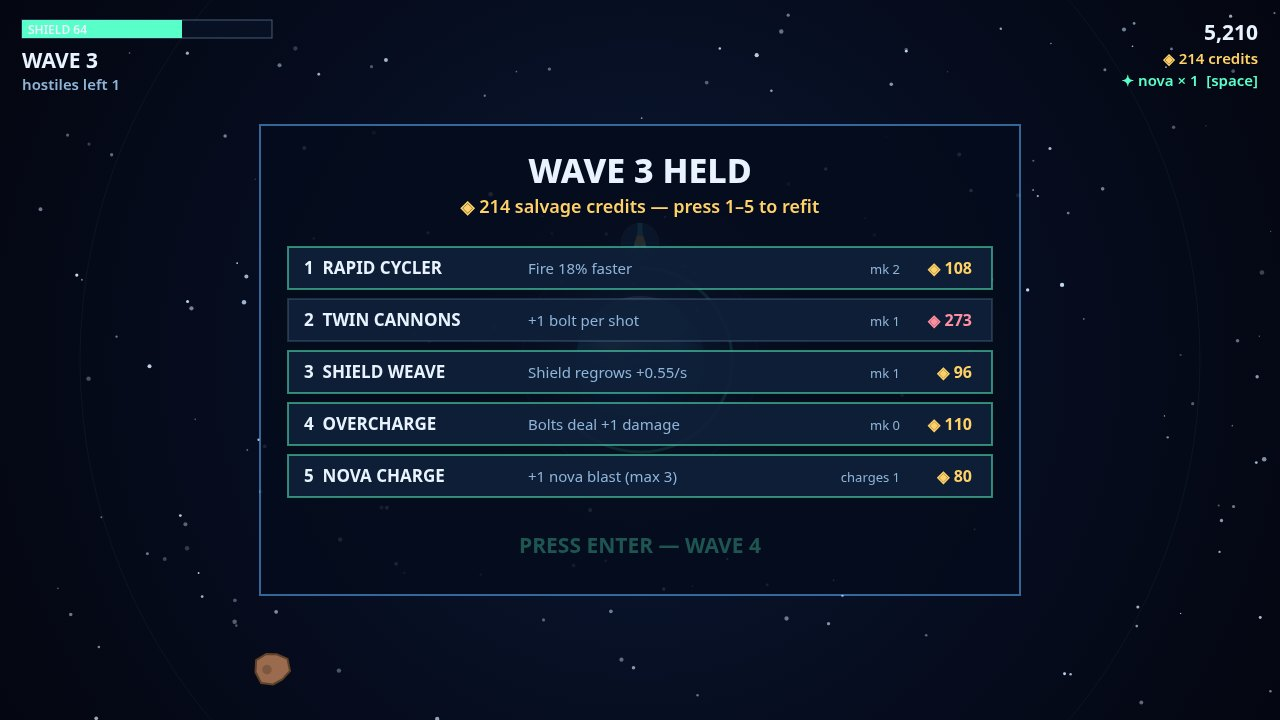
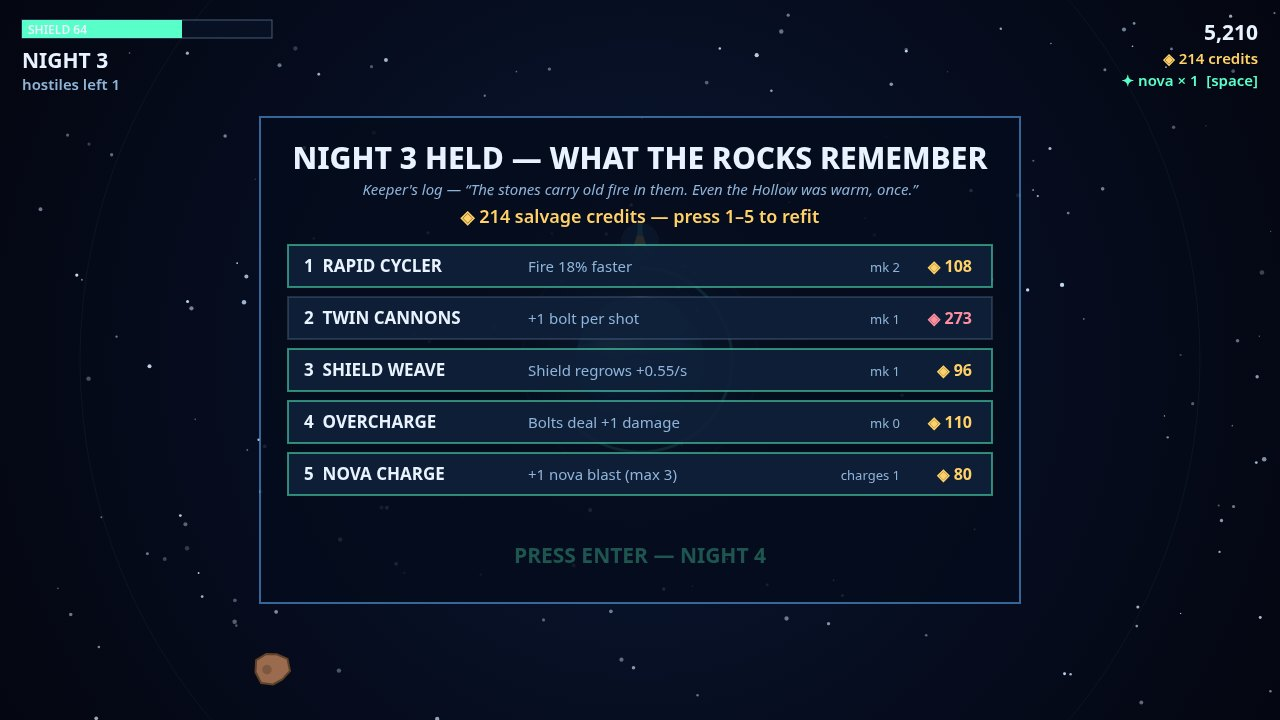
Round 2 — THE LAST KEEPER: story identity for Aegis Orbit
Same engine, a specific story: Aegis is the last lit star, the Hollow feeds
on light, the guardian is its Keeper. Named nights with a Keeper's log read
in the shipyard, a story title screen, epitaphs by nights held, NIGHT
labels throughout. Plus: Esc pauses, Enter starts a run from title/end.

diff --git a/game/src/render.js b/game/src/render.js
@@ -2,7 +2,7 @@
 // glowing atmosphere, a parallax starfield, polygon ships and rocks, and a
 // HUD that reads at a glance. Screens (title, shop, game over) draw here too.
 
-import { VIEW, PLANET, GUARDIAN, NOVA, SHOP, COLORS } from './config.js';
+import { VIEW, PLANET, GUARDIAN, NOVA, SHOP, COLORS, nightOf } from './config.js';
 import { rand, reseed } from './random.js';
 
 // Fixed starfield, generated once from a seed so every frame agrees.
@@ -252,7 +252,7 @@ function drawHUD(ctx, world) {
   ctx.fillStyle = COLORS.text;
   ctx.font = '700 21px "Segoe UI", system-ui, sans-serif';
   ctx.textAlign = 'left';
-  ctx.fillText(`WAVE ${Math.max(1, world.wave)}`, 22, 68);
+  ctx.fillText(`NIGHT ${Math.max(1, world.wave)}`, 22, 68);
   ctx.font = '600 15px "Segoe UI", system-ui, sans-serif';
   ctx.fillStyle = COLORS.dim;
   ctx.fillText(`hostiles left ${world.enemies.length + world.spawnQueue.length}`, 22, 90);
@@ -281,44 +281,67 @@ function panel(ctx, w, h) {
 }
 
 function drawTitle(ctx, world) {
-  const { x } = panel(ctx, 620, 400);
+  const { x } = panel(ctx, 660, 430);
   const cx = VIEW.w / 2;
   ctx.textAlign = 'center';
   ctx.fillStyle = COLORS.text;
   ctx.font = '800 64px "Segoe UI", system-ui, sans-serif';
-  ctx.fillText('AEGIS ORBIT', cx, 268);
-  ctx.fillStyle = '#57b6ff';
-  ctx.font = '600 19px "Segoe UI", system-ui, sans-serif';
-  ctx.fillText('one guardian · one planet · no second chances', cx, 304);
+  ctx.fillText('AEGIS ORBIT', cx, 238);
+  ctx.fillStyle = '#59ffc8';
+  ctx.font = '700 17px "Segoe UI", system-ui, sans-serif';
+  ctx.fillText('T H E   L A S T   K E E P E R', cx, 272);
   ctx.fillStyle = COLORS.dim;
   ctx.font = '16px "Segoe UI", system-ui, sans-serif';
-  ctx.fillText('Aim with the mouse — your guardian rides the orbit ring.', cx, 356);
-  ctx.fillText('Hold click to fire. Space fires a nova that clears the sky.', cx, 382);
-  ctx.fillText('Shoot mint star cores to recharge the nova.', cx, 408);
-  ctx.fillText('Between waves, spend salvage credits in the shipyard.', cx, 434);
+  ctx.fillText('Every star in the sky has gone out but one.', cx, 316);
+  ctx.fillText('The Hollow — things that feed on light — fall toward it, night after night.', cx, 342);
+  ctx.fillText('You are the Keeper of Aegis: not a soldier. The one who stayed.', cx, 368);
+  ctx.fillStyle = '#cfe6ff';
+  ctx.font = '15px "Segoe UI", system-ui, sans-serif';
+  ctx.fillText('Aim with the mouse — your cannon rides the orbit ring. Hold click to fire.', cx, 410);
+  ctx.fillText('Space fires a nova that clears the sky; shoot mint star cores to recharge it.', cx, 434);
+  ctx.fillText('Between nights, spend salvage in the shipyard. A/D or ←/→ orbits by keyboard.', cx, 458);
   const pulse = 0.65 + 0.35 * Math.sin(world.time * 3.4);
   ctx.globalAlpha = pulse;
   ctx.fillStyle = '#59ffc8';
   ctx.font = '700 24px "Segoe UI", system-ui, sans-serif';
-  ctx.fillText('CLICK TO DEFEND', cx, 492);
+  ctx.fillText('CLICK TO TAKE THE WATCH', cx, 516);
   ctx.globalAlpha = 1;
   ctx.textAlign = 'left';
   void x;
 }
 
+// Greedy word wrap for the story lines, measured against the live font.
+function wrapText(ctx, text, maxWidth) {
+  const words = text.split(' ');
+  const lines = [];
+  let line = '';
+  for (const w of words) {
+    const next = line ? `${line} ${w}` : w;
+    if (ctx.measureText(next).width > maxWidth && line) {
+      lines.push(line);
+      line = w;
+    } else line = next;
+  }
+  if (line) lines.push(line);
+  return lines;
+}
+
 function drawShop(ctx, world, shopPrice) {
-  const { x, y } = panel(ctx, 760, 470);
+  const { x, y } = panel(ctx, 760, 486);
   const cx = VIEW.w / 2;
   ctx.textAlign = 'center';
   ctx.fillStyle = COLORS.text;
-  ctx.font = '800 34px "Segoe UI", system-ui, sans-serif';
-  ctx.fillText(`WAVE ${world.wave} HELD`, cx, y + 58);
+  ctx.font = '800 30px "Segoe UI", system-ui, sans-serif';
+  ctx.fillText(`NIGHT ${world.wave} HELD — ${nightOf(world.wave).name}`, cx, y + 52);
+  ctx.fillStyle = COLORS.dim;
+  ctx.font = 'italic 15px "Segoe UI", system-ui, sans-serif';
+  ctx.fillText(`Keeper's log — “${world.logLine}”`, cx, y + 78);
   ctx.fillStyle = COLORS.credit;
   ctx.font = '600 18px "Segoe UI", system-ui, sans-serif';
-  ctx.fillText(`◈ ${world.credits} salvage credits — press 1–5 to refit`, cx, y + 88);
+  ctx.fillText(`◈ ${world.credits} salvage credits — press 1–5 to refit`, cx, y + 106);
   ctx.textAlign = 'left';
   SHOP.forEach((item, i) => {
-    const rowY = y + 122 + i * 52;
+    const rowY = y + 128 + i * 52;
     const isNova = item.id === 'nova';
     const lvl = isNova ? world.novaCharges : world.levels[item.id] || 0;
     const maxed = isNova ? world.novaCharges >= NOVA.maxCharges : lvl >= item.max;
@@ -348,29 +371,34 @@ function drawShop(ctx, world, shopPrice) {
   ctx.fillStyle = '#59ffc8';
   ctx.font = '700 21px "Segoe UI", system-ui, sans-serif';
   ctx.textAlign = 'center';
-  ctx.fillText(`PRESS ENTER — WAVE ${world.wave + 1}`, cx, y + 428);
+  ctx.fillText(`PRESS ENTER — NIGHT ${world.wave + 1}`, cx, y + 446);
   ctx.globalAlpha = 1;
   ctx.textAlign = 'left';
 }
 
 function drawOver(ctx, world) {
-  panel(ctx, 560, 330);
+  panel(ctx, 600, 380);
   const cx = VIEW.w / 2;
   ctx.textAlign = 'center';
   ctx.fillStyle = COLORS.danger;
   ctx.font = '800 46px "Segoe UI", system-ui, sans-serif';
-  ctx.fillText('AEGIS HAS FALLEN', cx, 268);
+  ctx.fillText('THE LIGHT GOES OUT', cx, 246);
   ctx.fillStyle = COLORS.text;
   ctx.font = '600 20px "Segoe UI", system-ui, sans-serif';
-  ctx.fillText(`You held ${world.finalWave} wave${world.finalWave === 1 ? '' : 's'} · ${world.kills} kills`, cx, 322);
+  ctx.fillText(`The Keeper held ${world.finalWave} night${world.finalWave === 1 ? '' : 's'} · ${world.kills} kills`, cx, 292);
   ctx.fillStyle = COLORS.credit;
   ctx.font = '700 26px "Segoe UI", system-ui, sans-serif';
-  ctx.fillText(`SCORE ${world.score.toLocaleString('en-US')}`, cx, 362);
+  ctx.fillText(`SCORE ${world.score.toLocaleString('en-US')}`, cx, 330);
+  ctx.fillStyle = COLORS.dim;
+  ctx.font = 'italic 15px "Segoe UI", system-ui, sans-serif';
+  wrapText(ctx, world.epitaphLine, 520).forEach((line, i) => {
+    ctx.fillText(line, cx, 368 + i * 22);
+  });
   const pulse = 0.65 + 0.35 * Math.sin(world.time * 3.4);
   ctx.globalAlpha = pulse;
   ctx.fillStyle = '#59ffc8';
   ctx.font = '700 21px "Segoe UI", system-ui, sans-serif';
-  ctx.fillText('CLICK TO TRY AGAIN', cx, 428);
+  ctx.fillText('CLICK TO KEEP THE WATCH AGAIN', cx, 452);
   ctx.globalAlpha = 1;
   ctx.textAlign = 'left';
 }
@@ -452,7 +480,7 @@ export function render(ctx, world, input, shopPrice) {
     ctx.fillText('PAUSED', VIEW.w / 2, VIEW.h / 2);
     ctx.font = '600 16px "Segoe UI", system-ui, sans-serif';
     ctx.fillStyle = COLORS.dim;
-    ctx.fillText('P to resume · A/D or ←/→ to orbit · M to mute', VIEW.w / 2, VIEW.h / 2 + 34);
+    ctx.fillText('P or Esc to resume · A/D or ←/→ to orbit · M to mute', VIEW.w / 2, VIEW.h / 2 + 34);
     ctx.textAlign = 'left';
   }
 }

diff --git a/game/src/config.js b/game/src/config.js
@@ -44,6 +44,48 @@ export function wavePlan(n) {
   };
 }
 
+// THE LAST KEEPER — the story frame. Every other star has gone out; Aegis is
+// the last lit world, and the Hollow — things that feed on light — fall toward
+// it night after night. The guardian is its Keeper: not a soldier, the one who
+// stayed. Waves are NIGHTS; each has a name and a line in the Keeper's log,
+// read in the shipyard while the sky is quiet. Past the written nights the
+// log keeps counting, because the Keeper does.
+export const STORY = {
+  keeper: 'THE LAST KEEPER',
+  star: 'AEGIS, THE LAST LIT STAR',
+  nights: [
+    { name: 'FIRST EMBERS', log: 'They came as sparks first. I almost thanked them for the light.' },
+    { name: 'THE DIMMING', log: 'The dark learned my orbit tonight. It will not unlearn it.' },
+    { name: 'WHAT THE ROCKS REMEMBER', log: 'The stones carry old fire in them. Even the Hollow was warm, once.' },
+    { name: 'A CHOIR OF STATIC', log: 'The weavers sing through the black. I hum back so the star hears a voice.' },
+    { name: 'THE GLOAM CARRIERS', log: 'They send their cathedrals now — slow, patient, full of teeth.' },
+    { name: 'HALF-LIGHT', log: 'Half the sky is theirs. The half above Aegis is mine.' },
+    { name: 'THE LONG ANSWER', log: 'Every bolt I fire is a sentence: not tonight. Not this star.' },
+    { name: 'EMBERWEATHER', log: 'The cores drift like seed. Even dying, this orbit grows light.' },
+    { name: 'THE HOLLOW, CLOSE', log: 'I can see them looking back now. Good. Let them aim at me.' },
+    { name: 'TEN THOUSAND DAWNS', log: 'No dawn is coming. I keep the watch anyway. That is the whole of it.' },
+  ],
+  // For nights past the written ten, the log still speaks.
+  lateLog: [
+    'Night uncounted. The star still burns. So do I.',
+    'The Hollow keeps the appointment. So does the Keeper.',
+    'I stopped counting nights. I did not stop keeping them.',
+  ],
+  // The closing line when the shield fails, by how long the light was held.
+  epitaph: (nights) =>
+    nights <= 2
+      ? 'The light went out early — but it was lit, and it was kept.'
+      : nights <= 5
+        ? 'Aegis dims. Somewhere in the dark, its embers are still travelling.'
+        : 'The last star falls having been defended to the end. That is not nothing. That is everything.',
+};
+
+export function nightOf(n) {
+  const s = STORY.nights[n - 1];
+  if (s) return s;
+  return { name: `NIGHT ${n}`, log: STORY.lateLog[(n - 1) % STORY.lateLog.length] };
+}
+
 // The between-wave shop. Each item can be bought repeatedly; price grows per level.
 export const SHOP = [
   { id: 'rapid', name: 'RAPID CYCLER', desc: 'Fire 18% faster', base: 45, growth: 1.55, max: 6 },

diff --git a/game/src/world.js b/game/src/world.js
@@ -1,7 +1,7 @@
 // AEGIS ORBIT — the world: state, spawning, combat, waves and the shop.
 // Rendering lives in render.js; this file never touches the canvas.
 
-import { PLANET, GUARDIAN, NOVA, ENEMIES, SHOP, wavePlan } from './config.js';
+import { PLANET, GUARDIAN, NOVA, ENEMIES, SHOP, wavePlan, STORY, nightOf } from './config.js';
 import { rand, randRange } from './random.js';
 
 export function createWorld(audio) {
@@ -31,6 +31,8 @@ export function createWorld(audio) {
     message: '',
     messageTimer: 0,
     finalWave: 0,
+    logLine: '', // the Keeper's log entry for the night just begun
+    epitaphLine: '', // the closing story line when the light goes out
   };
 
   const fireInterval = () => GUARDIAN.baseFireInterval * Math.pow(0.82, world.levels.rapid);
@@ -102,8 +104,10 @@ export function createWorld(audio) {
     world.spawnQueue = queue;
     world.spawnTimer = 0.6;
     world.phase = 'playing';
-    world.message = `WAVE ${n}`;
-    world.messageTimer = 2.0;
+    const night = nightOf(n);
+    world.message = `NIGHT ${n} — ${night.name}`;
+    world.messageTimer = 2.4;
+    world.logLine = night.log;
     audio.waveStart();
   }
 
@@ -120,6 +124,8 @@ export function createWorld(audio) {
     world.cores = [];
     world.levels = { rapid: 0, twin: 0, regen: 0, over: 0 };
     world.shake = 0;
+    world.logLine = '';
+    world.epitaphLine = '';
     startWave(1);
   }
 
@@ -190,6 +196,7 @@ export function createWorld(audio) {
       world.shield = 0;
       world.phase = 'over';
       world.finalWave = world.wave;
+      world.epitaphLine = STORY.epitaph(world.finalWave);
       burst(PLANET.x, PLANET.y, '#57b6ff', 90, 380);
       burst(PLANET.x, PLANET.y, '#ff5d73', 60, 300);
       audio.gameOver();
@@ -347,7 +354,7 @@ export function createWorld(audio) {
         world.phase = 'shop';
         const bonus = 100 * world.wave;
         world.score += bonus;
-        floater(PLANET.x, PLANET.y - PLANET.radius - 30, `WAVE BONUS +${bonus}`, '#59ffc8');
+        floater(PLANET.x, PLANET.y - PLANET.radius - 30, `NIGHT HELD +${bonus}`, '#59ffc8');
       }
     } else {
       world.waveClearTimer = 0;

diff --git a/game/src/main.js b/game/src/main.js
@@ -1,6 +1,6 @@
-// AEGIS ORBIT — boot and the frame loop. States move like this:
-// title --click--> wave 1..n --wave cleared--> shop --enter--> next wave,
-// and shield 0 --> game over --click--> a fresh run.
+// AEGIS ORBIT — THE LAST KEEPER. Boot and the frame loop. States move like
+// this: title --click--> night 1..n --night held--> shipyard --enter--> next
+// night, and shield 0 --> the light goes out --click--> a fresh watch.
 
 import { createInput } from './input.js';
 import { createAudio } from './audio.js';
@@ -29,12 +29,12 @@ if (shotName) {
     last = now;
 
     if (input.pressed.has('KeyM')) audio.toggleMute();
-    if (input.pressed.has('KeyP') && world.phase === 'playing') world.paused = !world.paused;
+    if ((input.pressed.has('KeyP') || input.pressed.has('Escape')) && world.phase === 'playing') world.paused = !world.paused;
 
-    if (world.phase === 'title' && input.clicked) {
+    if (world.phase === 'title' && (input.clicked || input.pressed.has('Enter'))) {
       audio.unlock();
       game.startRun();
-    } else if (world.phase === 'over' && input.clicked) {
+    } else if (world.phase === 'over' && (input.clicked || input.pressed.has('Enter'))) {
       audio.unlock();
       game.startRun();
     } else if (world.phase === 'shop') {

diff --git a/game/src/shots.js b/game/src/shots.js
@@ -3,7 +3,7 @@
 // a deterministic mid-game moment (same seed, same frame) so the screenshots
 // are real renders of the real game, reproducible by anyone.
 
-import { PLANET, ENEMIES } from './config.js';
+import { PLANET, ENEMIES, STORY, nightOf } from './config.js';
 import { reseed, rand, randRange } from './random.js';
 
 function poseEnemies(world, list) {
@@ -109,6 +109,7 @@ export function poseScene(world, input, name, seed) {
     world.shield = 64;
     world.novaCharges = 1;
     world.levels = { rapid: 2, twin: 1, regen: 1, over: 0 };
+    world.logLine = nightOf(world.wave).log;
     poseEnemies(world, [['asteroid', 480, 140]]);
     input.mouseX = PLANET.x;
     input.mouseY = PLANET.y - 300;
@@ -121,6 +122,7 @@ export function poseScene(world, input, name, seed) {
   world.score = 18930;
   world.kills = 163;
   world.shield = 0;
+  world.epitaphLine = STORY.epitaph(world.finalWave);
   poseParticles(world, 60);
   input.mouseX = PLANET.x + 100;
   input.mouseY = PLANET.y + 100;

diff --git a/game/index.html b/game/index.html
@@ -3,7 +3,7 @@
 <head>
 <meta charset="utf-8">
 <meta name="viewport" content="width=device-width, initial-scale=1">
-<title>AEGIS ORBIT — planetary defense</title>
+<title>AEGIS ORBIT — the last keeper</title>
 <style>
   html, body { margin: 0; padding: 0; background: #04060f; height: 100%; overflow: hidden; }
   body { display: flex; align-items: center; justify-content: center; font-family: "Segoe UI", system-ui, sans-serif; }

diff --git a/README.md b/README.md
@@ -1,13 +1,17 @@
-# AEGIS ORBIT
+# AEGIS ORBIT — The Last Keeper
 
-One guardian. One planet. No second chances.
+Every star in the sky has gone out but one.
 
-Aegis Orbit is a wave-defense arcade game for the desktop browser. You are the
-last orbital guardian of the planet Aegis: your cannon rides a ring around the
-planet, and everything in the dark is falling toward it. Shoot down asteroids,
-drones, weavers and carriers before they tear the shield apart, salvage the
-wreckage, and refit your cannon between waves — because the next wave is
-always bigger.
+Aegis is the last lit world, and the Hollow — things that feed on light —
+fall toward it night after night. You are its Keeper: not a soldier, the one
+who stayed. Your cannon rides a ring around the planet; shoot down the cinder
+rocks, snuffer drones, dimweavers and gloam carriers before they tear the
+shield apart, salvage the wreckage, and refit between nights — because the
+next night is always darker. Each night has a name, and the Keeper keeps a
+log. How many nights can the light be held?
+
+A wave-defense arcade game for the desktop browser: one guardian, one planet,
+no second chances.
 
 ## Play
 
@@ -22,9 +26,9 @@ No build step, no network requests, no dependencies.
 - **Hold click** — fire
 - **Space** — nova blast: clears everything near the planet (limited charges)
 - **A / D or ← / →** — orbit the ring by keyboard
-- **1–5** — buy in the shipyard between waves
-- **Enter** — launch the next wave
-- **P** — pause · **M** — mute
+- **1–5** — buy in the shipyard between nights
+- **Enter** — launch the next night (also starts a run from the title / end screens)
+- **P or Esc** — pause · **M** — mute
 
 Mint **star cores** drop from wrecks (carriers always drop one): shoot a core
 to bank a nova charge. In the shipyard you can buy a faster cycler, twin
